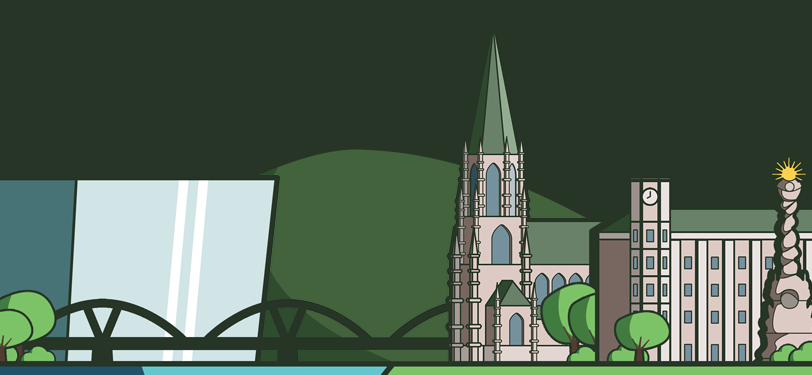
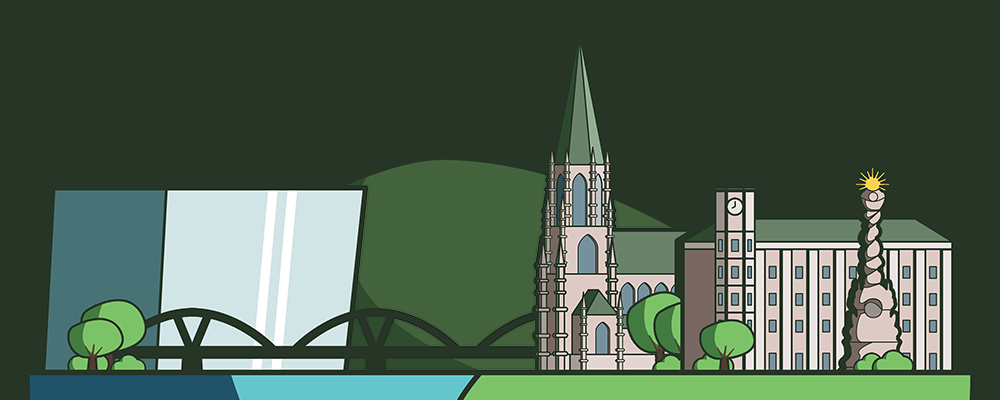
#frontend: --background-color bugfix, homepage background

diff --git a/frontend/src/views/shared/Home.vue b/frontend/src/views/shared/Home.vue
@@ -1,33 +1,35 @@
 <template>
-  <PublicHeader />
-  <div class="home full-height-header">
-    <section class="home__content">
-      <h1 class="heading heading--big">{{ $t('shared.view.home.header') }}</h1>
-      <p class="home__text">
-        {{ $t('shared.view.home.info') }}
-      </p>
-      <router-link to="/login" class="home__link">
-        <el-button type="info" class="el-button--submit">
-          {{ $t('shared.view.home.login') }}
-        </el-button>
-      </router-link>
-      <router-link to="/join">
-        <el-button class="outline">
-          {{ $t('shared.view.home.join') }}
-        </el-button>
-      </router-link>
-    </section>
-    <section class="home__img">
-      <img
-        alt="Illustration"
-      />
-    </section>
+  <div class="background">
+    <PublicHeader />
+    <div class="home full-height-header">
+      <section class="home__content">
+        <h1 class="heading heading--big">{{ $t('shared.view.home.header') }}</h1>
+        <p class="home__text">
+          {{ $t('shared.view.home.info') }}
+        </p>
+        <router-link to="/login" class="home__link">
+          <el-button type="info" class="el-button--submit">
+            {{ $t('shared.view.home.login') }}
+          </el-button>
+        </router-link>
+        <router-link to="/join">
+          <el-button class="outline">
+            {{ $t('shared.view.home.join') }}
+          </el-button>
+        </router-link>
+      </section>
+      <section class="home__img">
+        <img
+          alt="Illustration"
+        />
+      </section>
+    </div>
+    <footer>
+      <a @click="$router.push(`/imprint`)">
+        {{ $t('shared.view.home.imprint') }}
+      </a>
+    </footer>
   </div>
-  <footer>
-    <a @click="$router.push(`/imprint`)">
-      {{ $t('shared.view.home.imprint') }}
-    </a>
-  </footer>
 </template>
 
 <script lang="ts">
@@ -44,6 +46,14 @@ export default class Home extends Vue {}
 
 <style lang="scss" scoped>
 @import '~@/assets/styles/breakpoints.scss';
+
+.background {
+  width: 100%;
+  height: 100%;
+  position: fixed;
+  background-image: var(--home-background);
+  background-size: cover;
+}
 
 .logo-header {
   padding: 2rem;

diff --git a/frontend/src/assets/themes/ecopolis.scss b/frontend/src/assets/themes/ecopolis.scss
@@ -21,9 +21,9 @@
   $color-dark-contrast-light: #757d76;
   $color-dark-contrast-dark: #19201a;
   $color-background: #ede7e3;
-  $color-background-blue: #f0f6f6;
-  $color-gray: #e4e4e4;
-  $color-gray-dark: #666666;
+  $color-background-blue: #cfe2e5;
+  $color-gray: #b9b0aa;
+  $color-gray-dark: #72625c;
   $color-gray-inactive: #999999;
   $font-family: 'Work Sans';
   $font-weight-default: 400;
@@ -44,6 +44,7 @@
   $header-height: 90px;
   $participant-background-image: url('~@/assets/illustrations/Ecopolis/backgroundEcopolis.png');
   $home-image: url('~@/assets/illustrations/Ecopolis/Ecopolis_Color.png');
+  $home-background: url('~@/assets/illustrations/Ecopolis/EcopolisHomeBG.png');
 
   --color-purple: #{$color-purple};
   --color-purple-dark: #{$color-purple-dark};
@@ -94,4 +95,5 @@
   --corner-radius: 1.5rem;
   --participant-background-image: #{$participant-background-image};
   --home-image: #{$home-image};
+  --home-background: #{$home-background};
 }

diff --git a/frontend/src/assets/styles/variables.scss b/frontend/src/assets/styles/variables.scss
@@ -36,6 +36,7 @@ $sidebar-min-width: 300px;
 $header-height: 90px;
 $participant-background-image: url('~@/assets/illustrations/background.png');
 $home-image: url('~@/assets/illustrations/telescope_round.png');
+$home-background: none;
 
 :root {
   --color-purple-dark: #{$color-purple-dark};
@@ -80,6 +81,7 @@ $home-image: url('~@/assets/illustrations/telescope_round.png');
   --corner-radius: 1.5rem;
   --participant-background-image: #{$participant-background-image};
   --home-image: #{$home-image};
+  --home-background: #{$home-background};
 }
 
 @import '../themes/default.scss';

diff --git a/frontend/src/components/participant/organisms/layout/ParticipantDefaultContainer.vue b/frontend/src/components/participant/organisms/layout/ParticipantDefaultContainer.vue
@@ -67,7 +67,8 @@ export default class ParticipantDefaultContainer extends Vue {
   &__background {
     background: var(--color-dark-contrast);
     background-image: var(--participant-background-image);
-    background-size: contain;
+    //background-size: contain;
+    //background-repeat: no-repeat;
     mask-image: radial-gradient(
         circle farthest-corner at 100% 100%,
         transparent 69%,

diff --git a/frontend/src/components/moderator/organisms/Timeline/ProcessTimeline.vue b/frontend/src/components/moderator/organisms/Timeline/ProcessTimeline.vue
@@ -1015,7 +1015,7 @@ export default class ProcessTimeline extends Vue {
 
 .process-timeline-container {
   --color-foreground: var(--color-primary);
-  --color-background: var(--color-background);
+  //--color-background: var(--color-background);
   overflow-x: auto;
   overflow-y: visible;
   scrollbar-color: var(--color-foreground) var(--color-gray);
